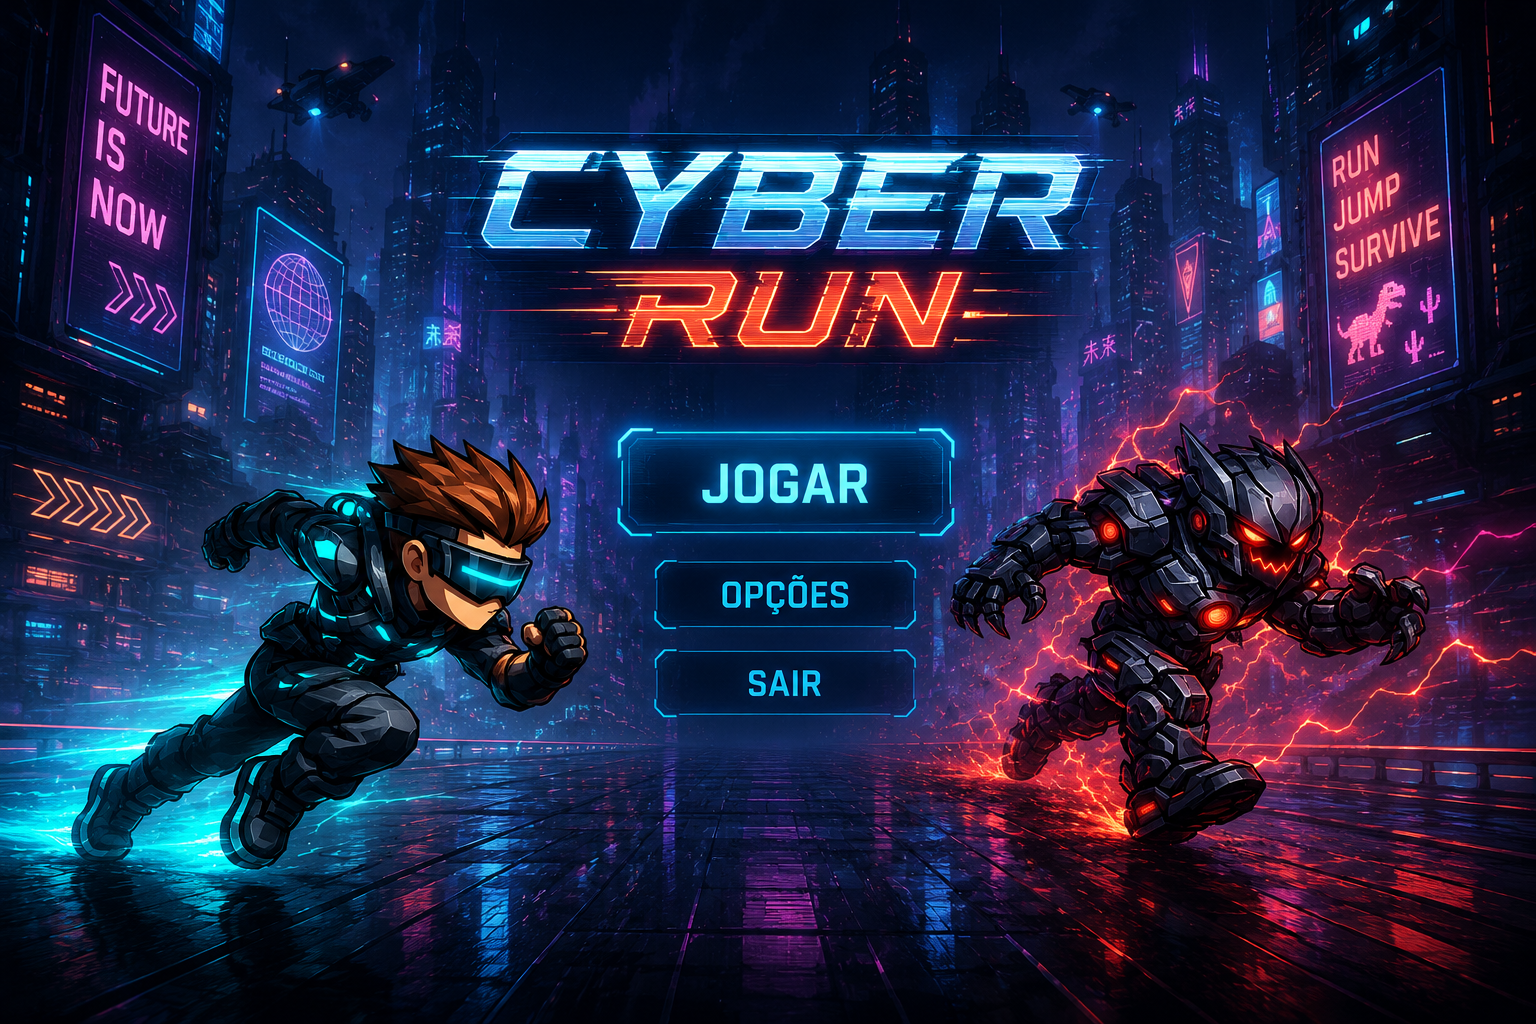
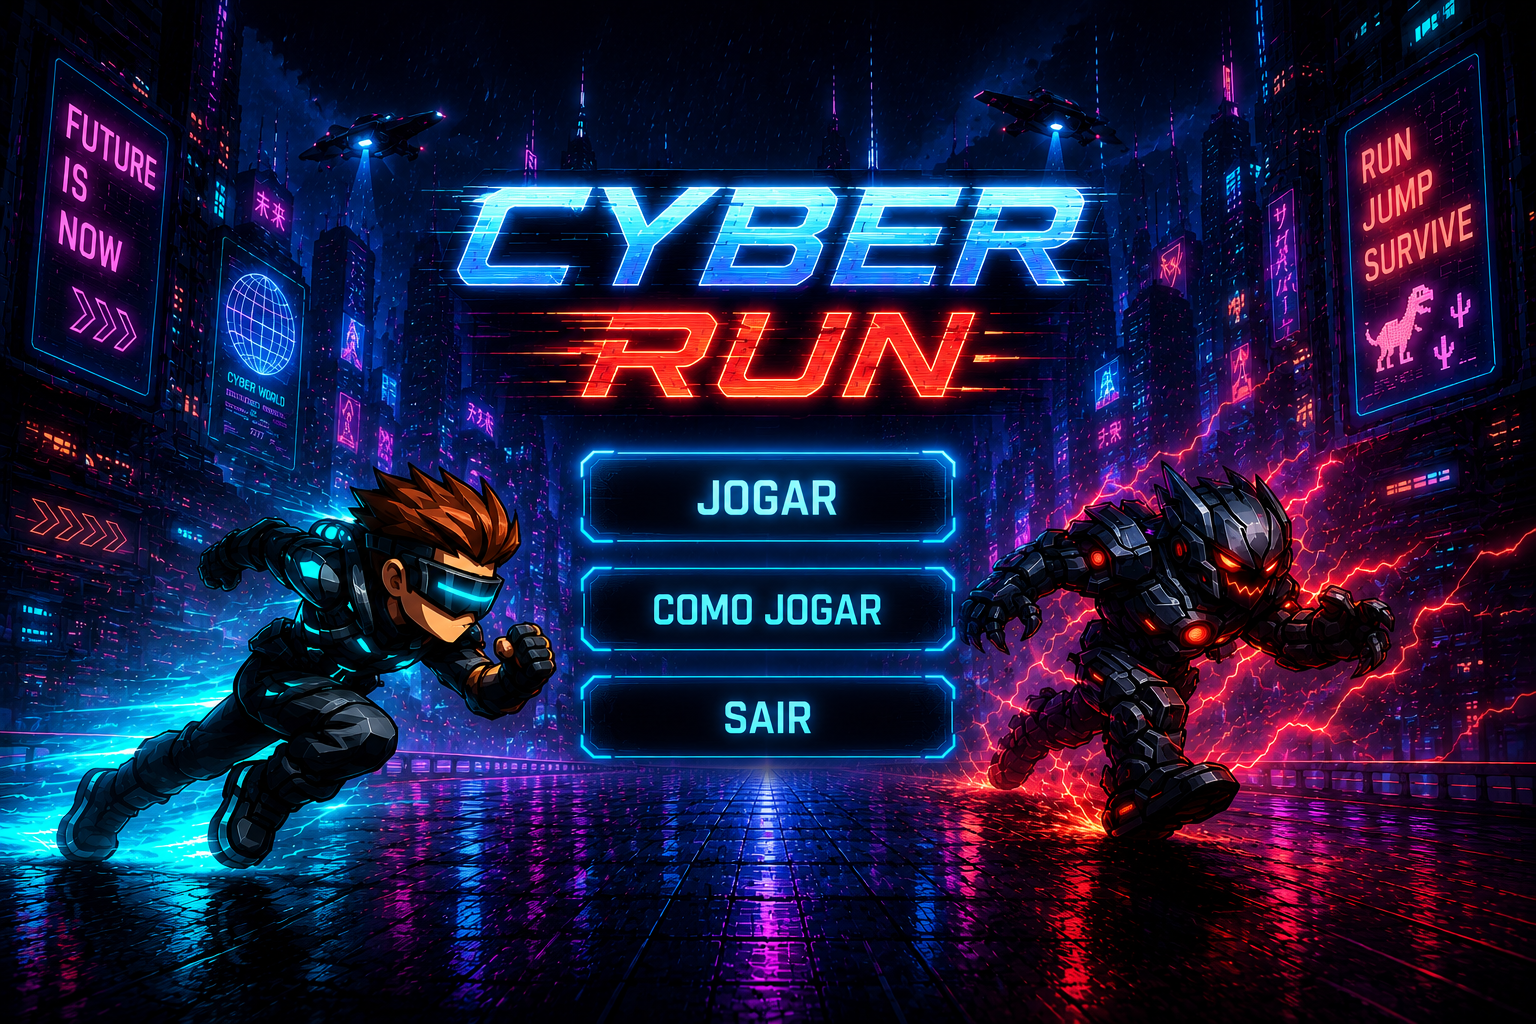
criando menu, como jogar e melhorando score

diff --git a/core/src/main/java/br/mackenzie/Main.java b/core/src/main/java/br/mackenzie/Main.java
@@ -3,10 +3,12 @@ package br.mackenzie;
 import com.badlogic.gdx.ApplicationAdapter;
 import com.badlogic.gdx.Gdx;
 import com.badlogic.gdx.Input;
+import com.badlogic.gdx.files.FileHandle;
 import com.badlogic.gdx.graphics.GL20;
 import com.badlogic.gdx.graphics.OrthographicCamera;
 import com.badlogic.gdx.graphics.Texture;
 import com.badlogic.gdx.graphics.g2d.BitmapFont;
+import com.badlogic.gdx.graphics.g2d.freetype.FreeTypeFontGenerator;
 import com.badlogic.gdx.graphics.g2d.SpriteBatch;
 import com.badlogic.gdx.math.MathUtils;
 import com.badlogic.gdx.math.Rectangle;
@@ -22,6 +24,7 @@ public class Main extends ApplicationAdapter {
      */
     private enum GameState {
         MENU,
+        HOW_TO_PLAY,
         PLAYING
     }
 
@@ -32,7 +35,23 @@ public class Main extends ApplicationAdapter {
      */
     private Texture menuTexture;
 
+    private Texture comoJogarTexture;
+
+    private boolean hasComoJogarTexture = false;
+
     private int menuOption = 0;
+
+    private final String[] menuOptions = {
+        "JOGAR",
+        "COMO JOGAR",
+        "SAIR"
+    };
+
+    private final float[] menuOptionY = {
+        365,
+        280,
+        195
+    };
 
     /*
      * SCORE
@@ -134,12 +153,17 @@ public class Main extends ApplicationAdapter {
          */
         menuTexture = new Texture("menu.png");
 
+        if (Gdx.files.internal("como-jogar.png").exists()) {
+
+            comoJogarTexture = new Texture("como-jogar.png");
+
+            hasComoJogarTexture = true;
+        }
+
         /*
          * FONTE SCORE
          */
-        font = new BitmapFont();
-
-        font.getData().setScale(2.5f);
+        font = createSharpFont(38);
 
         /*
          * TEXTURAS
@@ -189,6 +213,62 @@ public class Main extends ApplicationAdapter {
         obstaculos = new Array<>();
     }
 
+    /*
+     * FONTE
+     */
+    private BitmapFont createSharpFont(int size) {
+
+        FileHandle fontFile;
+
+        if (Gdx.files.internal("fonte.ttf").exists()) {
+
+            fontFile = Gdx.files.internal("fonte.ttf");
+
+        } else if (Gdx.files.absolute("C:/Windows/Fonts/arialbd.ttf").exists()) {
+
+            fontFile = Gdx.files.absolute("C:/Windows/Fonts/arialbd.ttf");
+
+        } else if (Gdx.files.absolute("C:/Windows/Fonts/arial.ttf").exists()) {
+
+            fontFile = Gdx.files.absolute("C:/Windows/Fonts/arial.ttf");
+
+        } else {
+
+            BitmapFont fallbackFont = new BitmapFont();
+
+            fallbackFont.getRegion().getTexture().setFilter(
+                Texture.TextureFilter.Linear,
+                Texture.TextureFilter.Linear
+            );
+
+            fallbackFont.getData().setScale(2.5f);
+
+            return fallbackFont;
+        }
+
+        FreeTypeFontGenerator generator = new FreeTypeFontGenerator(fontFile);
+
+        FreeTypeFontGenerator.FreeTypeFontParameter parameter =
+            new FreeTypeFontGenerator.FreeTypeFontParameter();
+
+        parameter.size = size;
+
+        parameter.minFilter = Texture.TextureFilter.Linear;
+
+        parameter.magFilter = Texture.TextureFilter.Linear;
+
+        parameter.characters = FreeTypeFontGenerator.DEFAULT_CHARS
+            + "ÁÀÂÃÉÊÍÓÔÕÚÇáàâãéêíóôõúç";
+
+        BitmapFont generatedFont = generator.generateFont(parameter);
+
+        generatedFont.setUseIntegerPositions(false);
+
+        generator.dispose();
+
+        return generatedFont;
+    }
+
     @Override
     public void render() {
 
@@ -197,6 +277,12 @@ public class Main extends ApplicationAdapter {
             inputMenu();
 
             drawMenu();
+
+        } else if (gameState == GameState.HOW_TO_PLAY) {
+
+            inputHowToPlay();
+
+            drawHowToPlay();
 
         } else {
 
@@ -213,16 +299,37 @@ public class Main extends ApplicationAdapter {
      */
     private void inputMenu() {
 
-        /*
-         * JOGAR
-         */
+        if (Gdx.input.isKeyJustPressed(Input.Keys.UP)) {
+
+            menuOption--;
+
+            if (menuOption < 0) {
+
+                menuOption = menuOptions.length - 1;
+            }
+        }
+
+        if (Gdx.input.isKeyJustPressed(Input.Keys.DOWN)) {
+
+            menuOption++;
+
+            if (menuOption >= menuOptions.length) {
+
+                menuOption = 0;
+            }
+        }
+
         if (Gdx.input.isKeyJustPressed(Input.Keys.ENTER)) {
 
             if (menuOption == 0) {
 
                 startGame();
 
-            } else {
+            } else if (menuOption == 1) {
+
+                gameState = GameState.HOW_TO_PLAY;
+
+            } else if (menuOption == 2) {
 
                 Gdx.app.exit();
             }
@@ -256,6 +363,51 @@ public class Main extends ApplicationAdapter {
          * IMAGEM MENU
          */
         batch.draw(menuTexture, 0, 0, 1280, 720);
+
+        font.draw(batch, ">", 480, menuOptionY[menuOption]);
+
+        font.draw(batch, "<", 780, menuOptionY[menuOption]);
+
+        batch.end();
+    }
+
+    /*
+     * COMO JOGAR INPUT
+     */
+    private void inputHowToPlay() {
+
+        if (Gdx.input.isKeyJustPressed(Input.Keys.ENTER)
+            || Gdx.input.isKeyJustPressed(Input.Keys.ESCAPE)) {
+
+            gameState = GameState.MENU;
+        }
+    }
+
+    /*
+     * COMO JOGAR DRAW
+     */
+    private void drawHowToPlay() {
+
+        Gdx.gl.glClearColor(0, 0, 0, 1);
+
+        Gdx.gl.glClear(GL20.GL_COLOR_BUFFER_BIT);
+
+        camera.update();
+
+        batch.setProjectionMatrix(camera.combined);
+
+        batch.begin();
+
+        if (hasComoJogarTexture) {
+
+            batch.draw(comoJogarTexture, 0, 0, 1280, 720);
+
+        } else {
+
+            font.draw(batch, "Arquivo como-jogar.png nao encontrado em assets", 220, 390);
+
+            font.draw(batch, "Pressione ENTER ou ESC para voltar", 310, 330);
+        }
 
         batch.end();
     }
@@ -605,6 +757,11 @@ public class Main extends ApplicationAdapter {
         font.dispose();
 
         menuTexture.dispose();
+
+        if (comoJogarTexture != null) {
+
+            comoJogarTexture.dispose();
+        }
 
         corredorTexture.dispose();
 
